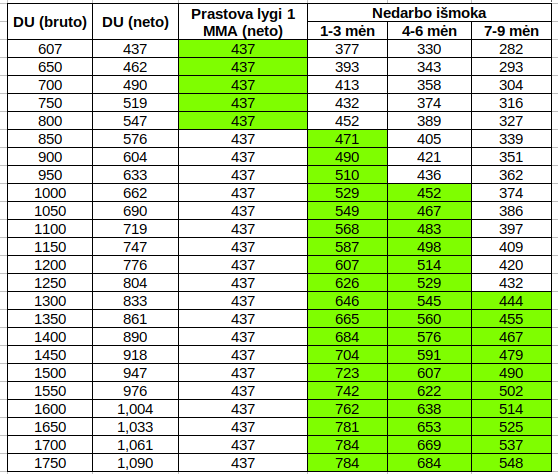
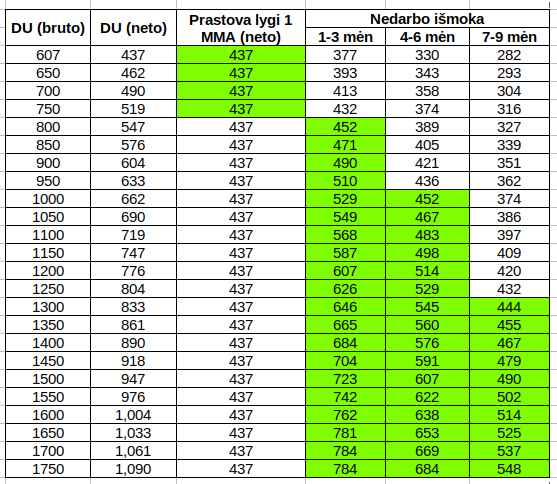
update

diff --git a/public/2020/04/14/ka-rinktis-nemokamas-atostogas-prastova-ar-nedarbo-ismoka/index.html b/public/2020/04/14/ka-rinktis-nemokamas-atostogas-prastova-ar-nedarbo-ismoka/index.html
@@ -153,7 +153,7 @@ Darbdaviai galės rinktis iš šių dviejų variantų:</p>
 <p>Išvados:</p>
 <ol>
 <li>Jei asmuo uždirbdavo MMA, jam labiau apsimoka rinktis prastovą, nes nedarbo išmoka bus mažesnė, o prastova  negali būti mažesnė nei MMA.</li>
-<li>Kai uždirbama mažiau nei  855 EUR „ant popieriaus“, o prastova lygi 1 MMA, labiau apsimoka rinktis prastovą.</li>
+<li>Kai uždirbama mažiau nei 762 EUR „ant popieriaus“, o prastova lygi 1 MMA, labiau apsimoka rinktis prastovą.</li>
 <li>Kai uždirbama mažiau nei  1211 EUR „ant popieriaus“, o prastova lygi 1.5 MMA, labiau apsimoka rinktis prastovą.</li>
 <li>Nedarbo išmokos lubos, jei bedarbis užsiregistravo Užimtumo tarnyboje 2020 m. II ketvirtį, pasiekiamos, kai darbo užmokestis „ant popieriaus“ yra 1655 EUR.</li>
 </ol>

diff --git a/content/post/2020-04-14-ka-rinktis-nemokamas-atostogas-prastova-ar-nedarbo-ismoka/2020-04-14-ka-rinktis-nemokamas-atostogas-prastova-ar-nedarbo-ismoka.md b/content/post/2020-04-14-ka-rinktis-nemokamas-atostogas-prastova-ar-nedarbo-ismoka/2020-04-14-ka-rinktis-nemokamas-atostogas-prastova-ar-nedarbo-ismoka.md
@@ -73,7 +73,7 @@ Darbuotojas, kurio darbdavys nori jam skelbti prastovą, arba dar blogiau, bando
 Išvados:
 
 1. Jei asmuo uždirbdavo MMA, jam labiau apsimoka rinktis prastovą, nes nedarbo išmoka bus mažesnė, o prastova  negali būti mažesnė nei MMA.
-2. Kai uždirbama mažiau nei  855 EUR „ant popieriaus“, o prastova lygi 1 MMA, labiau apsimoka rinktis prastovą.
+2. Kai uždirbama mažiau nei 762 EUR „ant popieriaus“, o prastova lygi 1 MMA, labiau apsimoka rinktis prastovą.
 3. Kai uždirbama mažiau nei  1211 EUR „ant popieriaus“, o prastova lygi 1.5 MMA, labiau apsimoka rinktis prastovą.
 4. Nedarbo išmokos lubos, jei bedarbis užsiregistravo Užimtumo tarnyboje 2020 m. II ketvirtį, pasiekiamos, kai darbo užmokestis „ant popieriaus“ yra 1655 EUR. 
 
